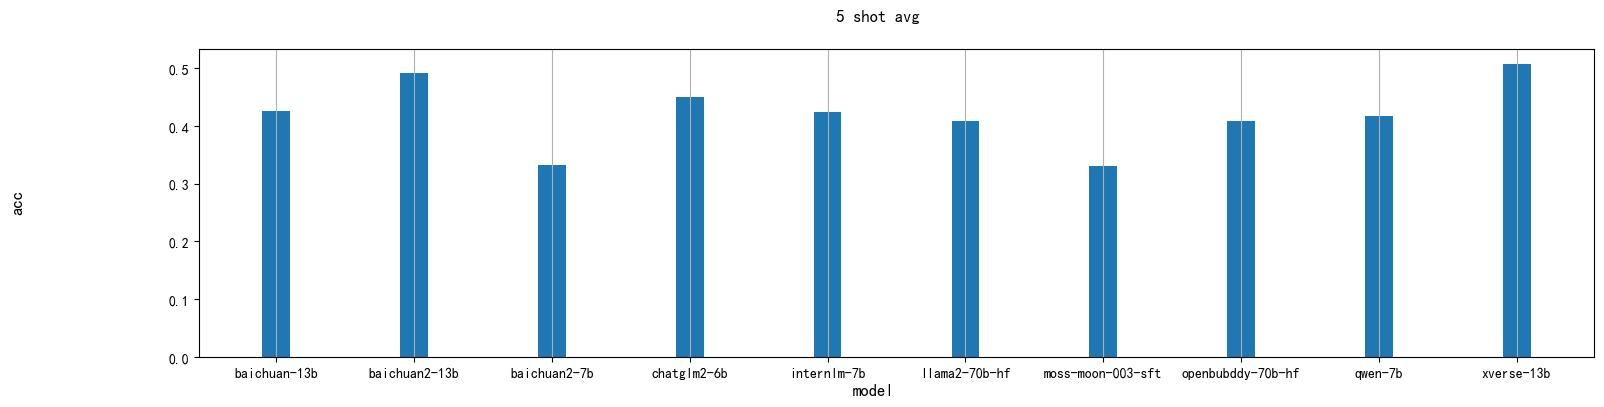
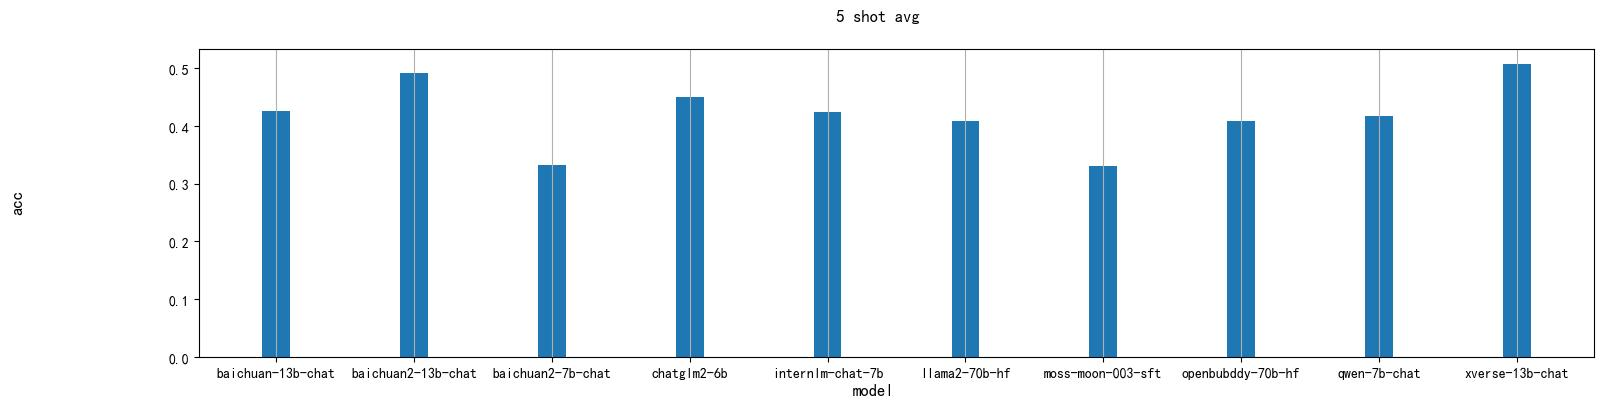
update

Changed region(s): [[0.1247, 0.8845, 0.3741, 0.9435], [0.8105, 0.8845, 0.9663, 0.9435], [0.4676, 0.8845, 0.5611, 0.9435]]

diff --git a/outputs/model_result/draw_ceval.py b/outputs/model_result/draw_ceval.py
@@ -26,7 +26,7 @@ files = os.listdir("ceval")
 files = sorted(files)
 for file in files:
     with open(os.path.join('ceval',file,'metric.json'),mode='r',encoding='utf-8') as f:
-        data_map[file.replace('-int4','').replace('-chat','')] = get_data(json.loads(f.read()))
+        data_map[file.replace('-int4','')] = get_data(json.loads(f.read()))
 
 
 import matplotlib.pyplot as plt   #导入包
